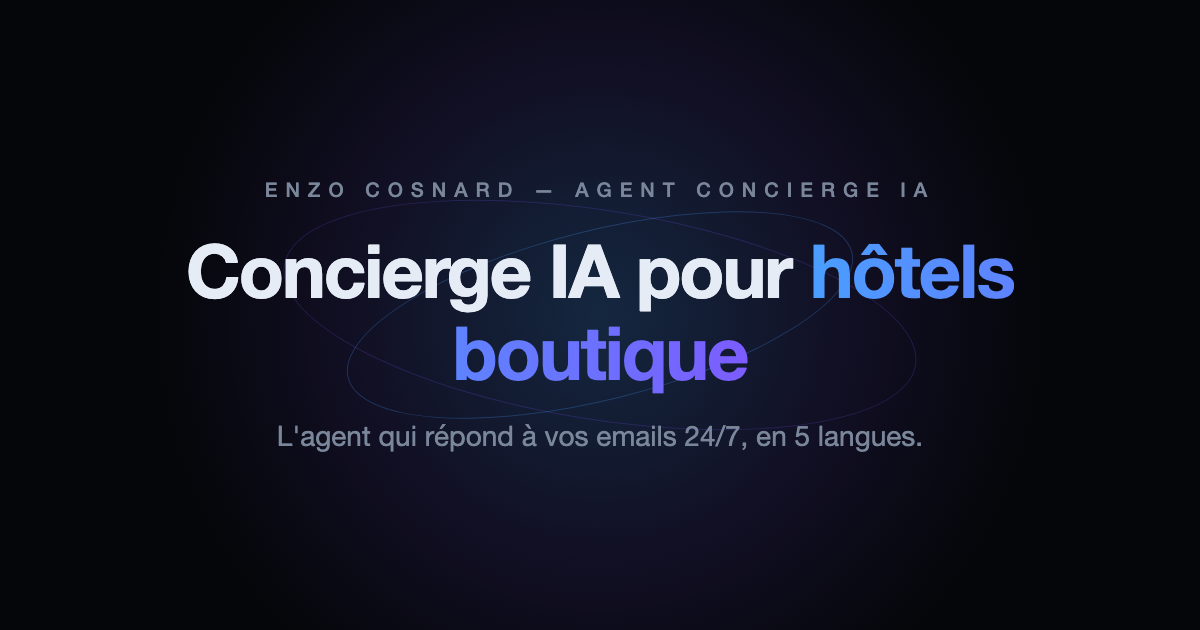
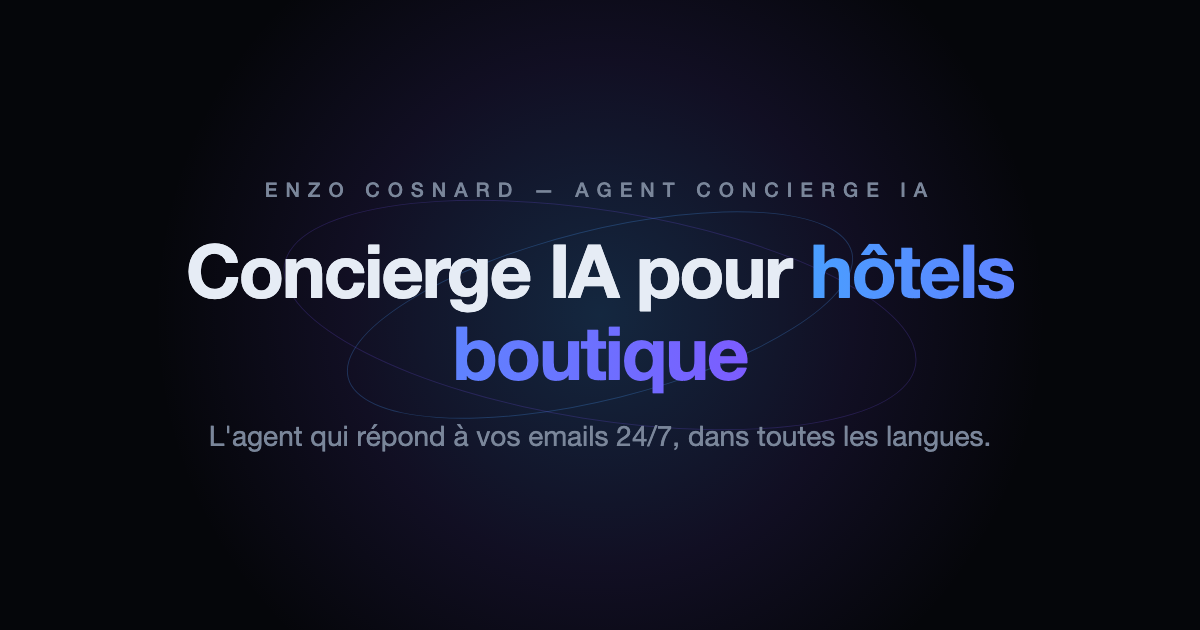
fix: multilingual claim replaces '5 languages' everywhere (copy + og images)

Changed region(s): [[0.185, 0.6635, 0.8325, 0.7238]]

diff --git a/lib/translations.ts b/lib/translations.ts
@@ -6,14 +6,14 @@ const fr = {
   meta: {
     title: "Enzo Cosnard — Agent Concierge IA pour hôtels boutique",
     description:
-      "L'agent IA qui répond aux emails de votre réception 24/7, en 5 langues, avec le ton de votre maison. Déjà en production dans un hôtel boutique 5★.",
+      "L'agent IA qui répond aux emails de votre réception 24/7, dans toutes les langues, avec le ton de votre maison. Déjà en production dans un hôtel boutique 5★.",
   },
   hero: {
     eyebrow: "Enzo Cosnard — Agent concierge IA",
     titleStart: "Concierge IA pour ",
     titleAccent: "hôtels boutique",
     subtitle:
-      "L'agent qui répond à vos emails 24/7, en 5 langues, avec le ton de votre maison.",
+      "L'agent qui répond à vos emails 24/7, dans toutes les langues, avec le ton de votre maison.",
     ctaPrimary: "Voir la démo",
     ctaSecondary: "Contact",
   },
@@ -49,7 +49,7 @@ const fr = {
     location: "Méditerranée",
     stats: [
       { value: 13, prefix: "", suffix: "", label: "chambres" },
-      { value: 5, prefix: "", suffix: "", label: "langues traitées" },
+      { value: 100, prefix: "", suffix: " %", label: "multilingue" },
       {
         value: 2,
         prefix: "~",
@@ -82,7 +82,7 @@ const fr = {
         monthly: "80€",
         features: [
           "Tri automatique des emails entrants",
-          "Brouillons de réponse en 5 langues",
+          "Brouillons de réponse multilingues",
           "Dashboard de suivi",
         ],
       },
@@ -137,14 +137,14 @@ const en: Translation = {
   meta: {
     title: "Enzo Cosnard — AI Concierge Agent for boutique hotels",
     description:
-      "The AI agent that answers your front desk emails 24/7, in 5 languages, with the voice of your house. Already live at a 5★ boutique hotel.",
+      "The AI agent that answers your front desk emails 24/7, in all major languages, with the voice of your house. Already live at a 5★ boutique hotel.",
   },
   hero: {
     eyebrow: "Enzo Cosnard — AI concierge agent",
     titleStart: "AI concierge for ",
     titleAccent: "boutique hotels",
     subtitle:
-      "The agent that answers your emails 24/7, in 5 languages, with the voice of your house.",
+      "The agent that answers your emails 24/7, in all major languages, with the voice of your house.",
     ctaPrimary: "See the demo",
     ctaSecondary: "Contact",
   },
@@ -180,7 +180,7 @@ const en: Translation = {
     location: "Mediterranean",
     stats: [
       { value: 13, prefix: "", suffix: "", label: "rooms" },
-      { value: 5, prefix: "", suffix: "", label: "languages handled" },
+      { value: 100, prefix: "", suffix: "%", label: "multilingual" },
       {
         value: 2,
         prefix: "~",
@@ -213,7 +213,7 @@ const en: Translation = {
         monthly: "80€",
         features: [
           "Automatic sorting of incoming emails",
-          "Reply drafts in 5 languages",
+          "Multilingual reply drafts",
           "Monitoring dashboard",
         ],
       },